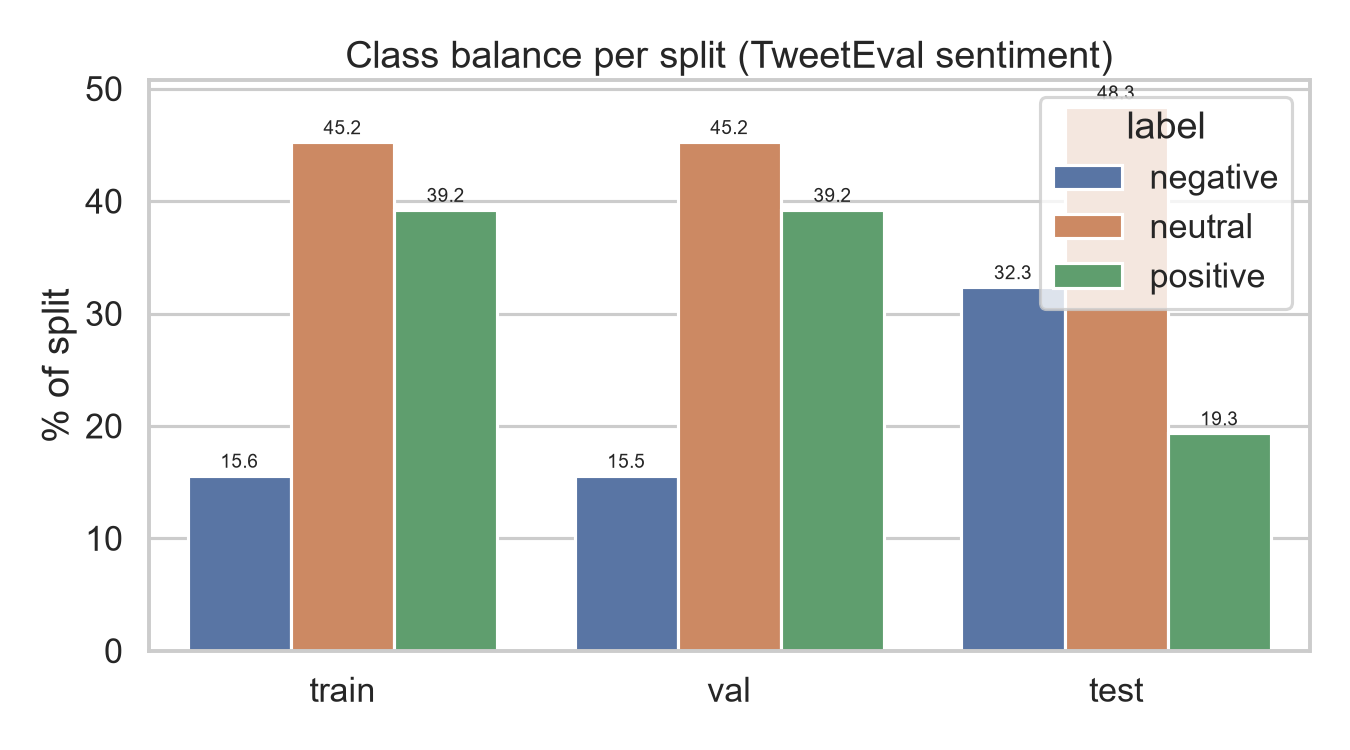
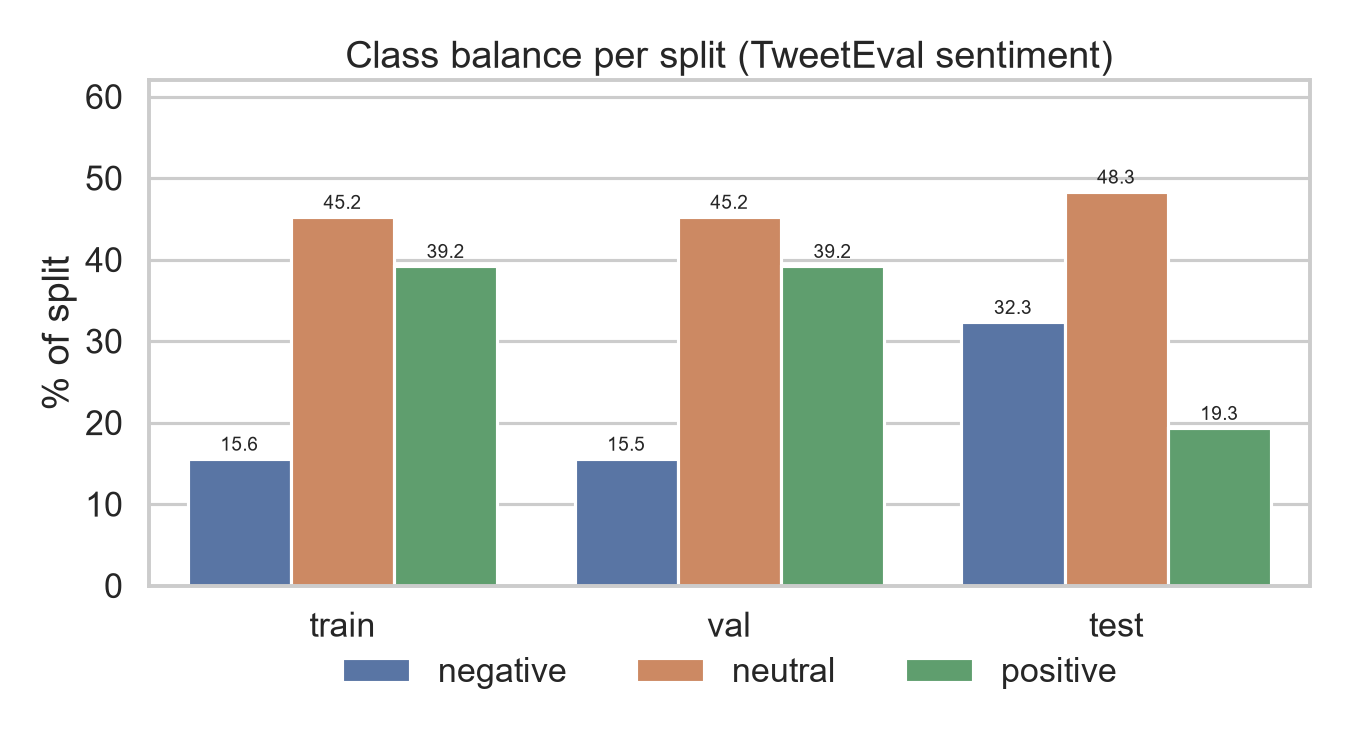
Phase 8: split-specific eval artifacts, report formatting fix, final verification

diff --git a/src/evaluate.py b/src/evaluate.py
@@ -150,7 +150,9 @@ def main() -> dict[str, Any]:
     plot_confusion_matrix(
         y_true, y_pred, LABEL_NAMES,
         title=f"{ckpt['model_name']} - {args.split} (macro-F1 {metrics['macro_f1']:.3f})",
-        path=FIG_DIR / f"{run_name}_confusion_matrix.png",
+        # The split is part of the filename so a validation check can never
+        # overwrite the test-set figure that the README embeds.
+        path=FIG_DIR / f"{run_name}_{args.split}_confusion_matrix.png",
     )
     save_classification_report_md(report, f"{run_name} - {args.split} classification report", RESULTS_DIR / f"{tag}_classification_report.md")
     metrics["per_class"] = {
@@ -201,7 +203,7 @@ def main() -> dict[str, Any]:
     ax.set_title(f"{run_name}: confidence of correct vs wrong predictions ({args.split})")
     ax.legend()
     fig.tight_layout()
-    fig.savefig(FIG_DIR / f"{run_name}_confidence.png", dpi=150)
+    fig.savefig(FIG_DIR / f"{run_name}_{args.split}_confidence.png", dpi=150)
     plt.close(fig)
 
     return metrics

diff --git a/src/summarize.py b/src/summarize.py
@@ -46,8 +46,8 @@ def _load(path: Path) -> dict[str, Any]:
 def build_rows() -> list[dict[str, Any]]:
     rows: list[dict[str, Any]] = []
     for path in sorted(RUNS_DIR.glob("*.json")):
-        if path.name.endswith("_test.json"):
-            continue
+        if path.name.endswith(("_test.json", "_val.json")):
+            continue  # split-level evaluation files, not training runs
         record = _load(path)
         name = record.get("run_name", path.stem)
         if name.startswith("smoke_"):

diff --git a/results/error_analysis.md b/results/error_analysis.md
@@ -2,7 +2,9 @@
 
 **Model:** `roberta-base` fine-tuned with the custom loop in `src/train.py`
 **Checkpoint:** `checkpoints/e4_roberta_lr2e-5/best.pt` (epoch 3, selected on validation macro-F1 = 0.7348)
-**Split:** official TweetEval test, 12,284 tweets, evaluated **once** (`python -m src.evaluate`)
+**Split:** official TweetEval test, 12,284 tweets — used only for the final report
+of the validation-selected checkpoint (`python -m src.evaluate`), never for model
+selection or tuning.
 
 | metric | value |
 |---|---|
